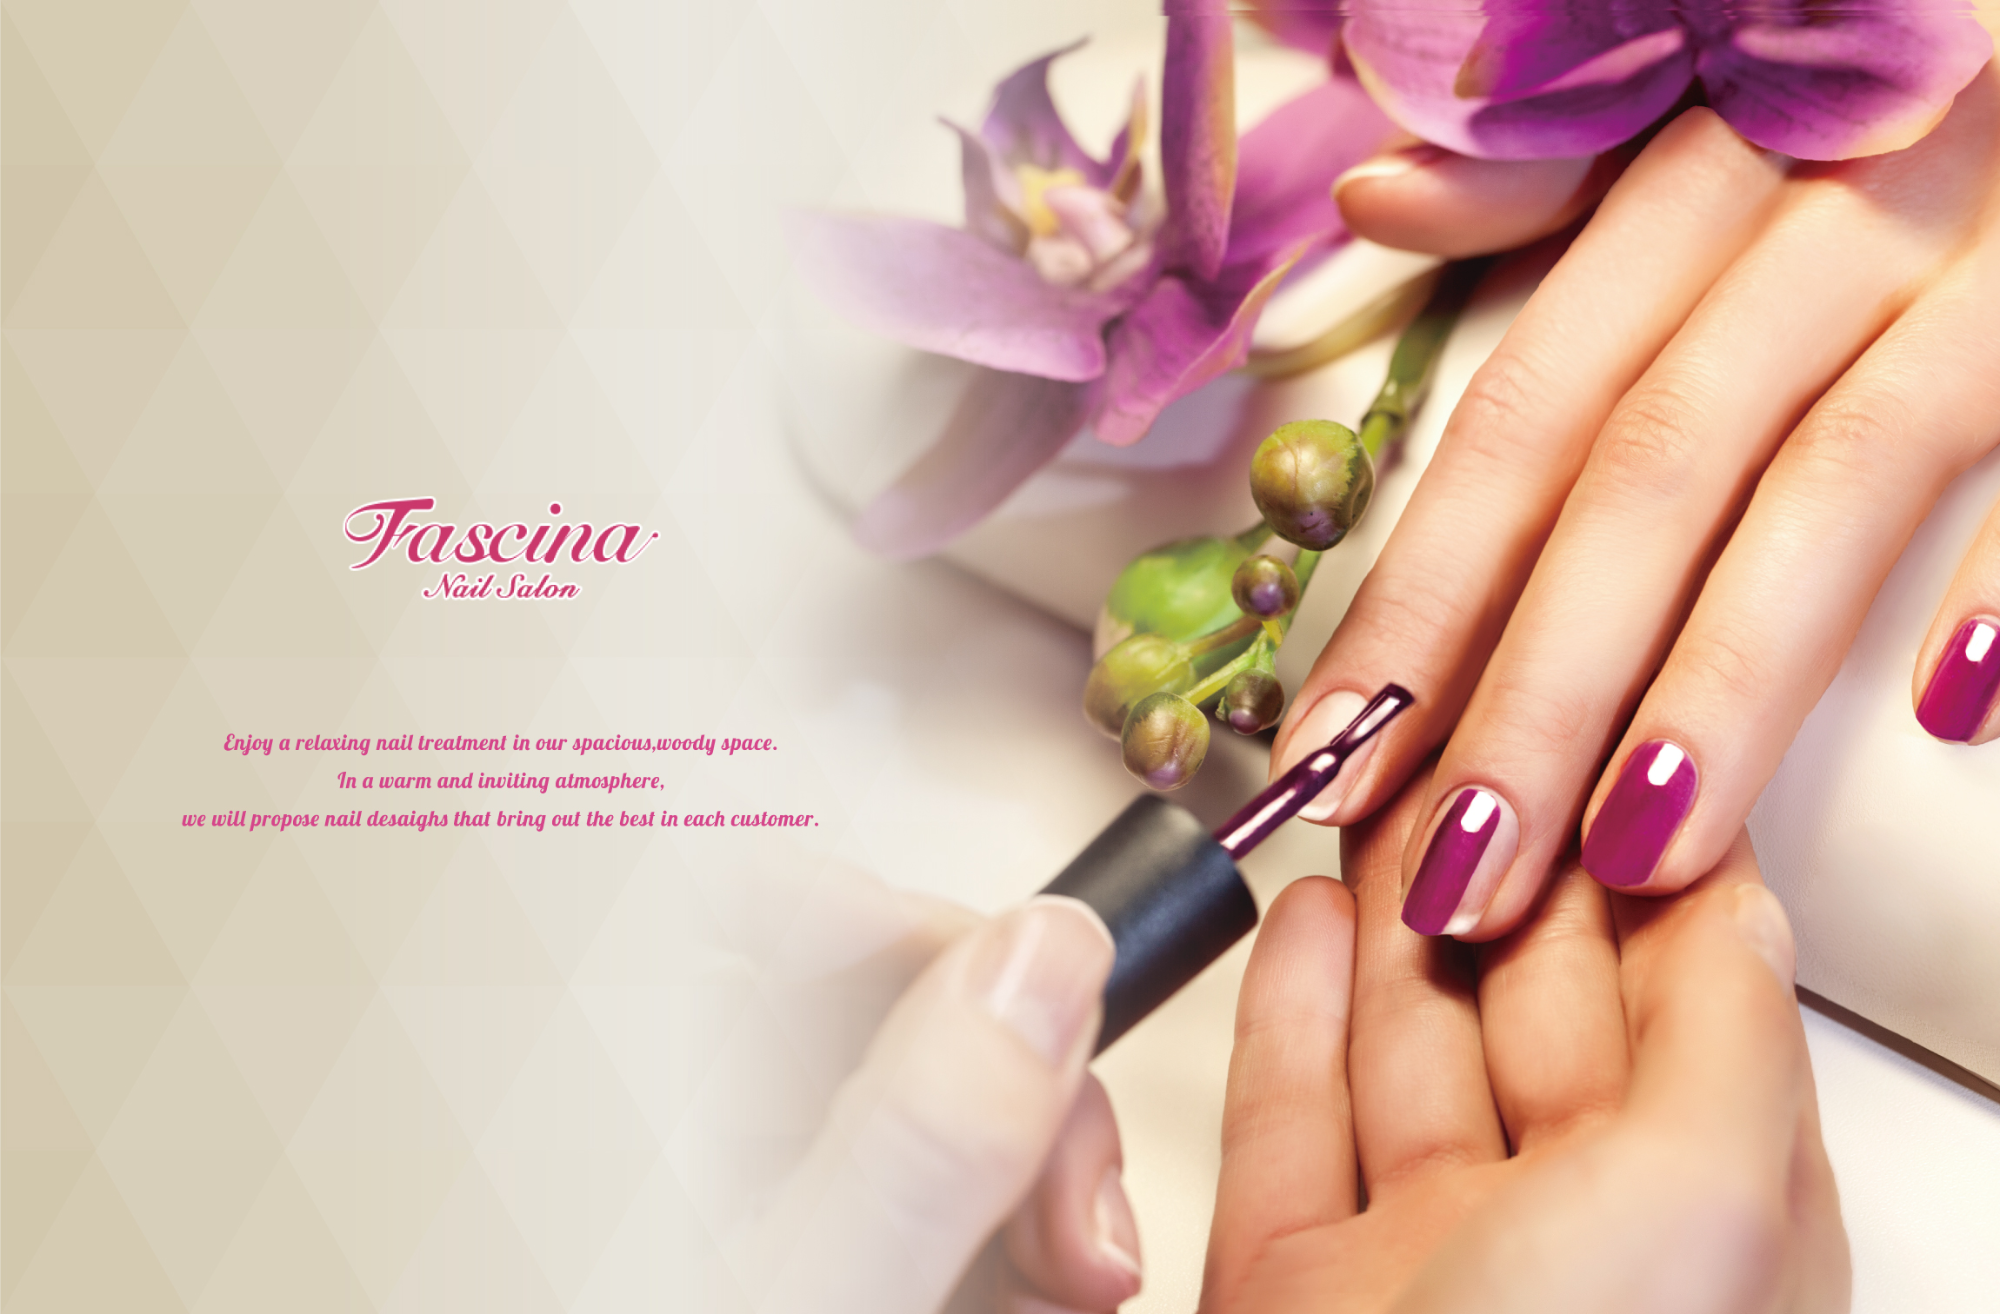
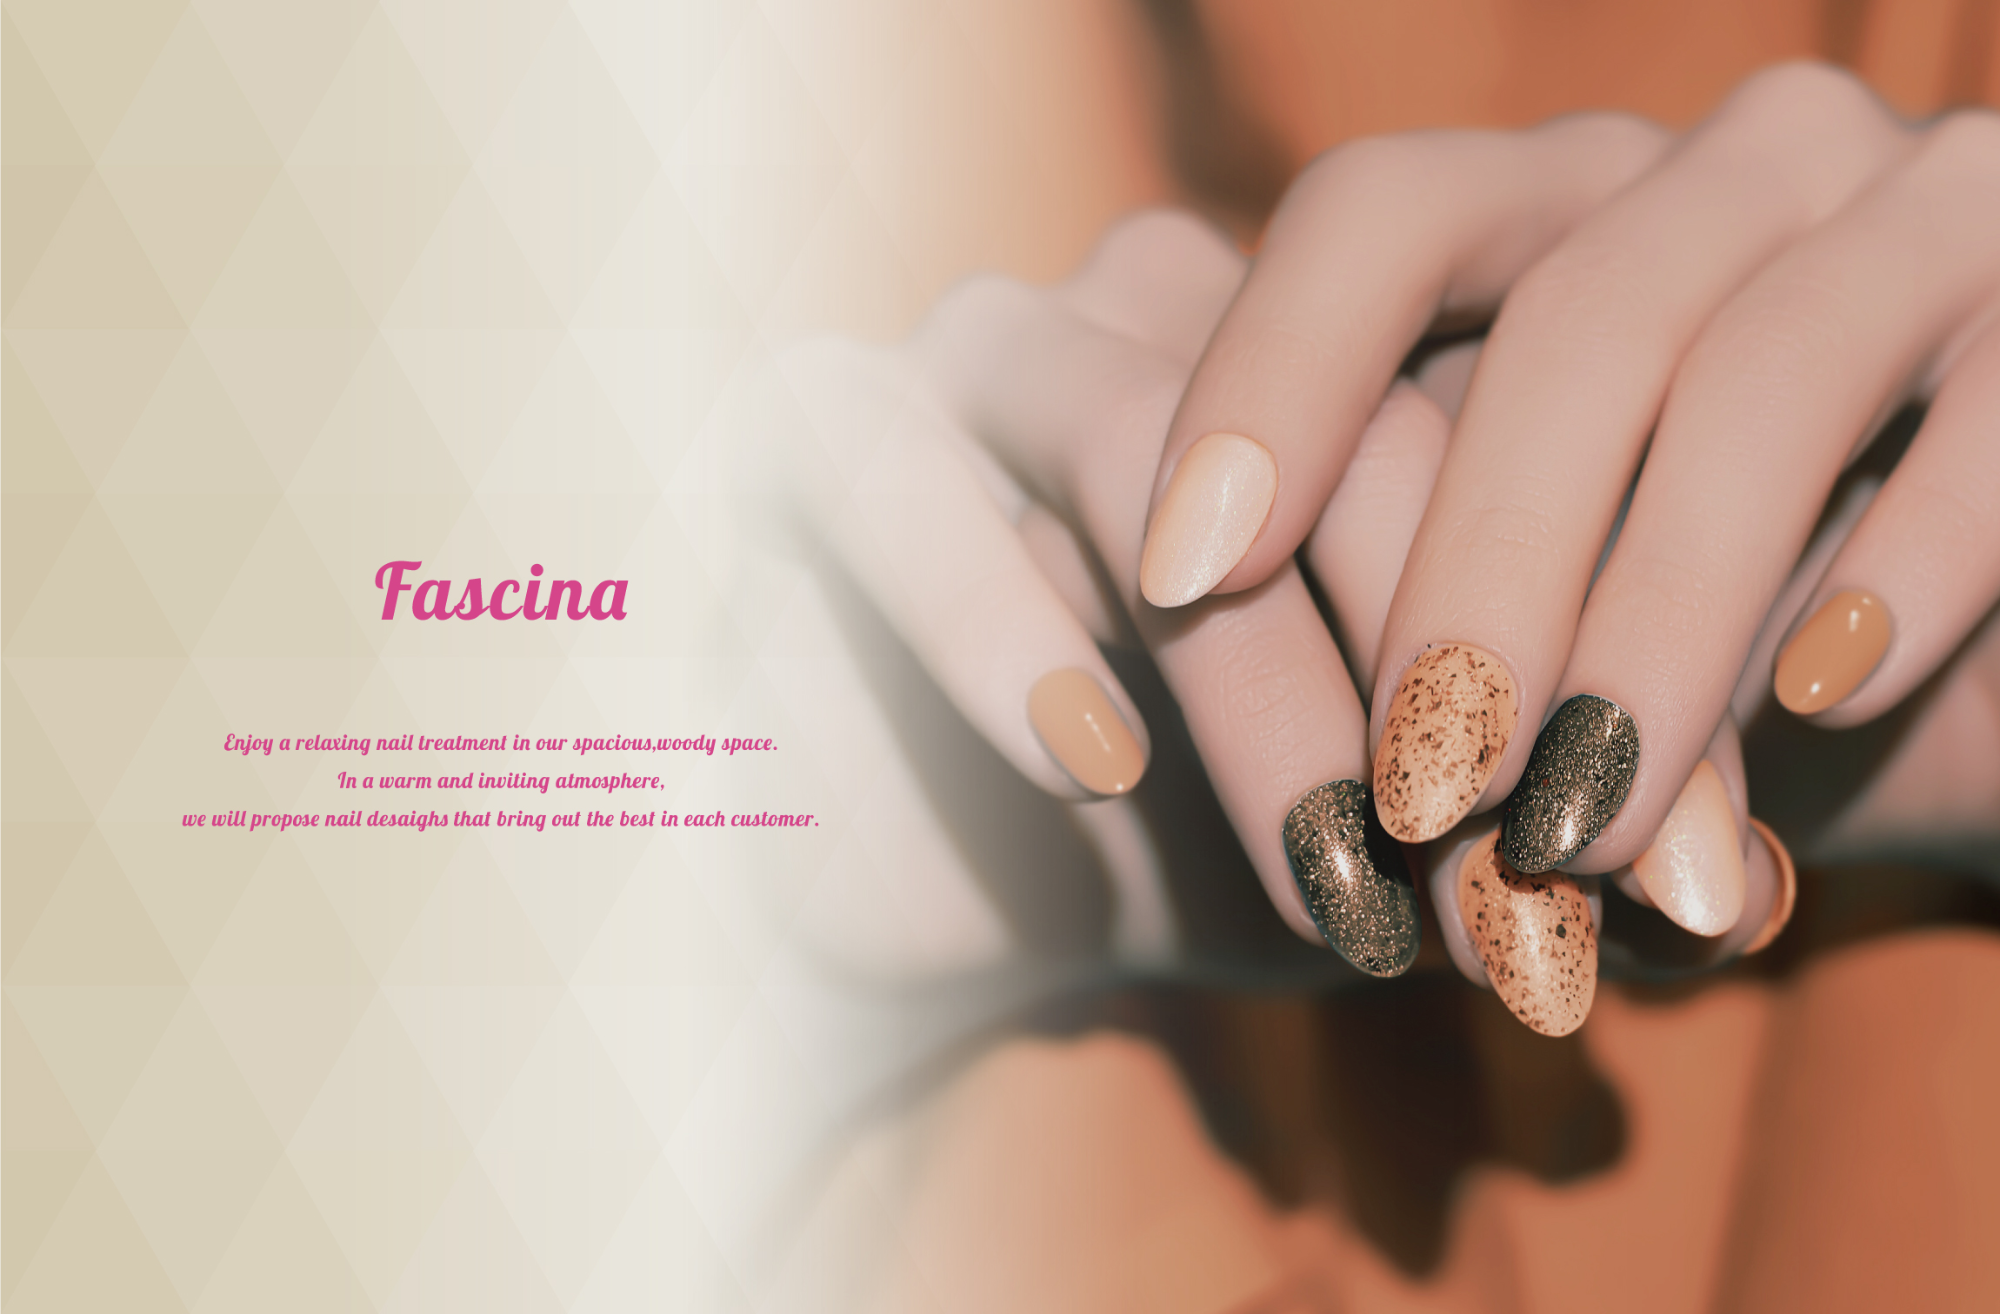
画像の差し込み

diff --git a/wp-content/themes/fascina/concept.php b/wp-content/themes/fascina/concept.php
@@ -33,7 +33,7 @@ get_header();
                 </p>
             </div>
             <div class="concept-image">
-                <img src="<?php echo esc_url(get_template_directory_uri()); ?>/assets/images/first1.jpg" alt="コンセプト画像1">
+                <img src="<?php echo esc_url(get_template_directory_uri()); ?>/assets/images/concept1.jpeg" alt="コンセプト画像1">
             </div>
         </div>
     </section>
@@ -58,7 +58,7 @@ get_header();
                 </p>
             </div>
             <div class="concept-image">
-                <img src="<?php echo esc_url(get_template_directory_uri()); ?>/assets/images/first2.jpg" alt="コンセプト画像2">
+                <img src="<?php echo esc_url(get_template_directory_uri()); ?>/assets/images/concept2.jpg" alt="コンセプト画像2">
             </div>
         </div>
     </section>
@@ -85,7 +85,7 @@ get_header();
                 </p>
             </div>
             <div class="concept-image">
-                <img src="<?php echo esc_url(get_template_directory_uri()); ?>/assets/images/first3.jpg" alt="コンセプト画像3">
+                <img src="<?php echo esc_url(get_template_directory_uri()); ?>/assets/images/concept3.jpeg" alt="コンセプト画像3">
             </div>
         </div>
     </section>
@@ -95,7 +95,7 @@ get_header();
 <style>
      /* ページヘッダー */
     .page-header {
-        background: url("<?php echo esc_url(get_template_directory_uri()); ?>/assets/images/slide.jpg") no-repeat center center;
+        background: url("<?php echo esc_url(get_template_directory_uri()); ?>/assets/images/concept.jpeg") no-repeat center center;
         background-size: cover;
         width: 100%;
         height: 420px;

diff --git a/wp-content/themes/fascina/coupon.php b/wp-content/themes/fascina/coupon.php
@@ -135,7 +135,7 @@ $total_pages = ceil($total_posts / $posts_per_page);
 <style>
     /* ページヘッダー */
     .page-header {
-        background: url("<?php echo esc_url(get_template_directory_uri()); ?>/assets/images/slide.jpg") no-repeat center center;
+        background: url("<?php echo esc_url(get_template_directory_uri()); ?>/assets/images/coupon.jpg") no-repeat center center;
         background-size: cover;
         width: 100%;
         height: 420px;

diff --git a/wp-content/themes/fascina/page-gallery-template.php b/wp-content/themes/fascina/page-gallery-template.php
@@ -394,7 +394,7 @@ switch ($sub_category) {
 <style>
     /* ページヘッダー */
     .page-header {
-        background: url("<?php echo esc_url(get_template_directory_uri()); ?>/assets/images/slide.jpg") no-repeat center center;
+        background: url("<?php echo esc_url(get_template_directory_uri()); ?>/assets/images/gallery.jpeg") no-repeat center center;
         background-size: cover;
         width: 100%;
         height: 420px;

diff --git a/wp-content/themes/fascina/menu.php b/wp-content/themes/fascina/menu.php
@@ -485,7 +485,7 @@ get_header();
 <style>
     /* ページヘッダー */
     .page-header {
-        background: url("<?php echo esc_url(get_template_directory_uri()); ?>/assets/images/slide.jpg") no-repeat center center;
+        background: url("<?php echo esc_url(get_template_directory_uri()); ?>/assets/images/menu.jpeg") no-repeat center center;
         background-size: cover;
         width: 100%;
         height: 420px;

diff --git a/wp-content/themes/fascina/access.php b/wp-content/themes/fascina/access.php
@@ -76,7 +76,7 @@ get_header();
 <style>
     /* ページヘッダー */
     .page-header {
-        background: url("<?php echo esc_url(get_template_directory_uri()); ?>/assets/images/slide.jpg") no-repeat center center;
+        background: url("<?php echo esc_url(get_template_directory_uri()); ?>/assets/images/access.jpg") no-repeat center center;
         background-size: cover;
         width: 100%;
         height: 420px;

diff --git a/wp-content/themes/fascina/qa.php b/wp-content/themes/fascina/qa.php
@@ -77,7 +77,7 @@ get_header();
 <style>
     /* ページヘッダー */
     .page-header {
-        background: url("<?php echo esc_url(get_template_directory_uri()); ?>/assets/images/slide.jpg") no-repeat center center;
+        background: url("<?php echo esc_url(get_template_directory_uri()); ?>/assets/images/qa.jpeg") no-repeat center center;
         background-size: cover;
         width: 100%;
         height: 420px;
